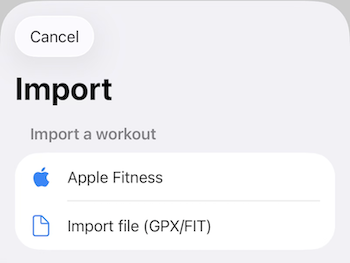
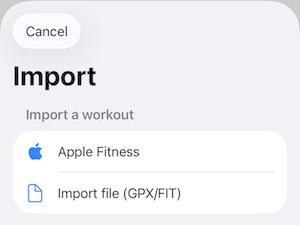
Updated images and review list

diff --git a/index.md b/index.md
@@ -14,6 +14,6 @@ A macOS, an iPhone, or an iPad with minimum version 26.
 Forecast weather vous permet de créer des parcours, ou de les importer. Vous pouvez ensuite vérifier la météo sur la totalité du parcours et vérifier la difficulté avec le dénivelé.
 
 # How it works?
-1. ![alt text]({{ site.baseurl }}/assets/images/icon/bicycle.circle.png) Importer un parcours au format GPX ou FIT, sinon tracer un parcours.
+1. ![alt text]({{ site.baseurl }}/assets/images/icon/plus.png) Importer un parcours au format GPX ou FIT, sinon tracer un parcours.
 2. ![alt text]({{ site.baseurl }}/assets/images/icon/calendar.png) Planifier votre sortie et vérifier les données météos
 3. ![alt text]({{ site.baseurl }}/assets/images/icon/cloud.sun.png) Analyser la météo du tous le parcours : vitesse et direction du vent, le risque de précipitation entre l’heure de départ et l’heure d’arrivée.
